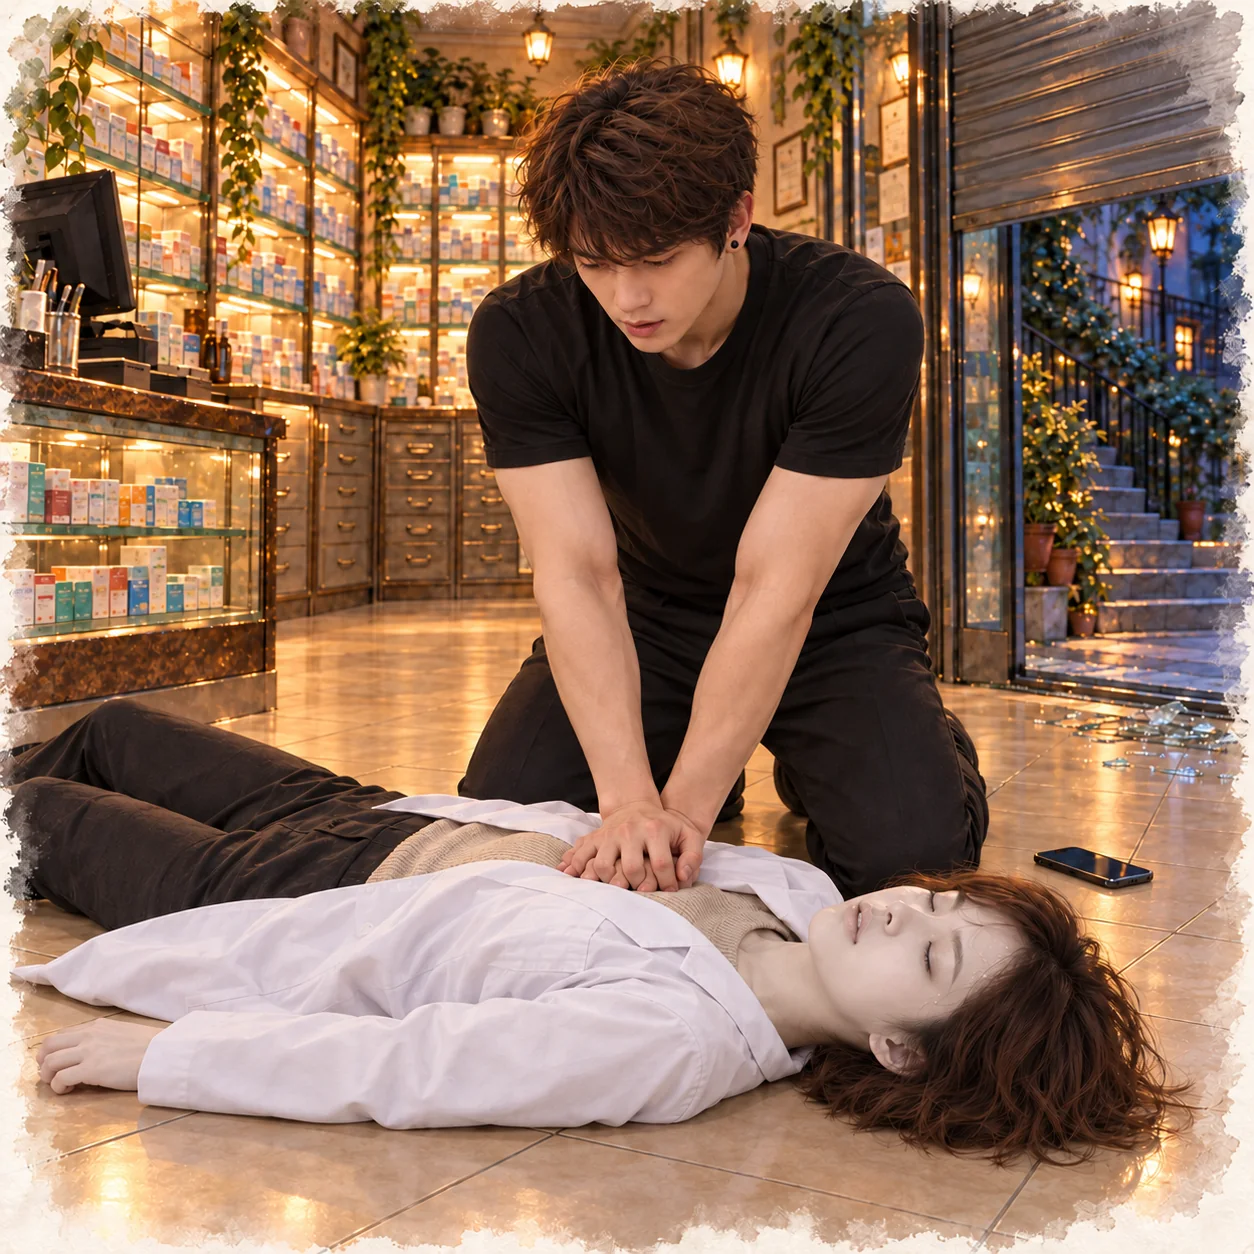
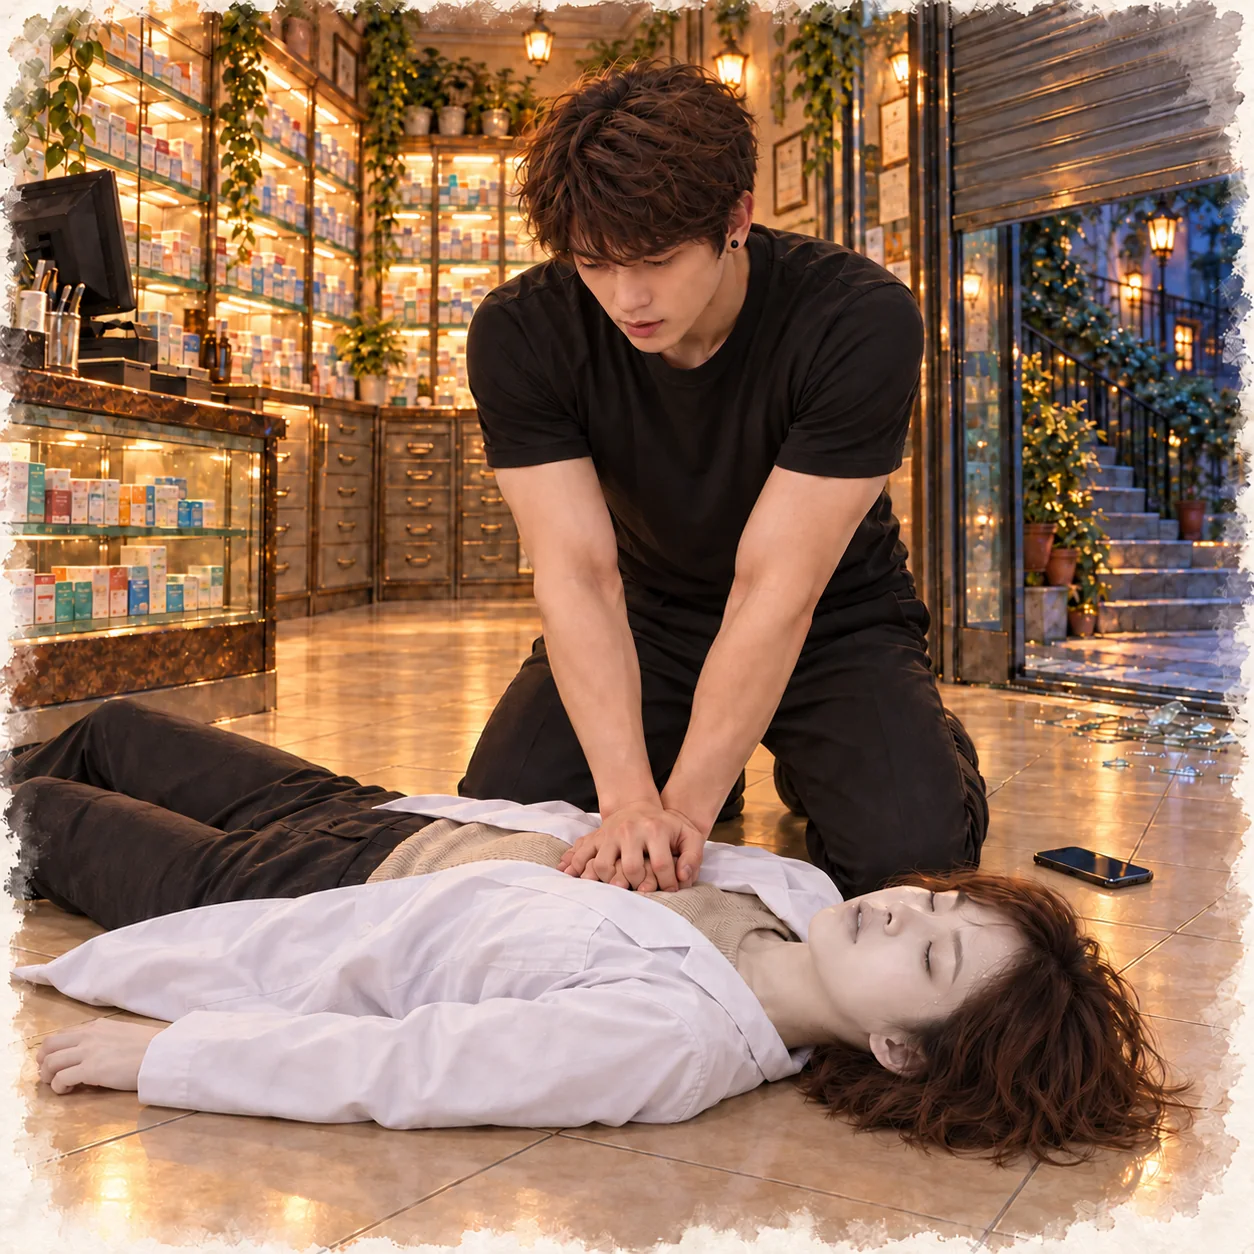
第一部第四章：陸曜插圖改用溫寧臉色較蒼白的版本
Claude-Session: https://claude.ai/code/session_01HUwf2ENyDuzceKaKYawxmj

diff --git a/novels/no-signboard-bar/chapter-04.html b/novels/no-signboard-bar/chapter-04.html
@@ -42,7 +42,7 @@
 <p>櫃檯後面那一台，他們找不找得到。</p>
 </section>
 <section class="pov pov-lu" data-name="陸曜">
-<div class="pov-opening"><h2 class="pov-title" id="pov-3"><span>敘事視角</span>陸曜</h2><a class="pov-art" href="../../assets/novels/no-signboard-bar/chapter-04-lu-yao.webp?v=20261013" target="_blank" rel="noopener" aria-label="開啟陸曜插圖大圖"><img src="../../assets/novels/no-signboard-bar/chapter-04-lu-yao.webp?v=20261013" alt="藥局門口，溫寧倒在地上沒有反應，陸曜跪在她身旁，雙手疊在她胸口正中間按壓，開著擴音的手機擱在地上。" width="1254" height="1254" loading="lazy" decoding="async"><span class="pov-cap">一、二、三、四</span></a><div class="pov-intro"><p>窗炸開的時候，我正在看鏡頭。</p>
+<div class="pov-opening"><h2 class="pov-title" id="pov-3"><span>敘事視角</span>陸曜</h2><a class="pov-art" href="../../assets/novels/no-signboard-bar/chapter-04-lu-yao.webp?v=20261013b" target="_blank" rel="noopener" aria-label="開啟陸曜插圖大圖"><img src="../../assets/novels/no-signboard-bar/chapter-04-lu-yao.webp?v=20261013b" alt="藥局門口，溫寧倒在地上沒有反應，陸曜跪在她身旁，雙手疊在她胸口正中間按壓，開著擴音的手機擱在地上。" width="1254" height="1254" loading="lazy" decoding="async"><span class="pov-cap">一、二、三、四</span></a><div class="pov-intro"><p>窗炸開的時候，我正在看鏡頭。</p>
 <p>二樓，玻璃整片往外爆，在路燈下像一把撒出去的鹽。</p>
 <p>手指比腦子快，已經按下連拍。三秒後，樓梯口衝出一個人。平頭，黑夾克，右手壓在腰側，往巷口跑。</p></div></div>
 <p>那種跑法我太熟了。腰上帶傢伙的人，跑步都像在護著一個肚子痛的地方。</p>
